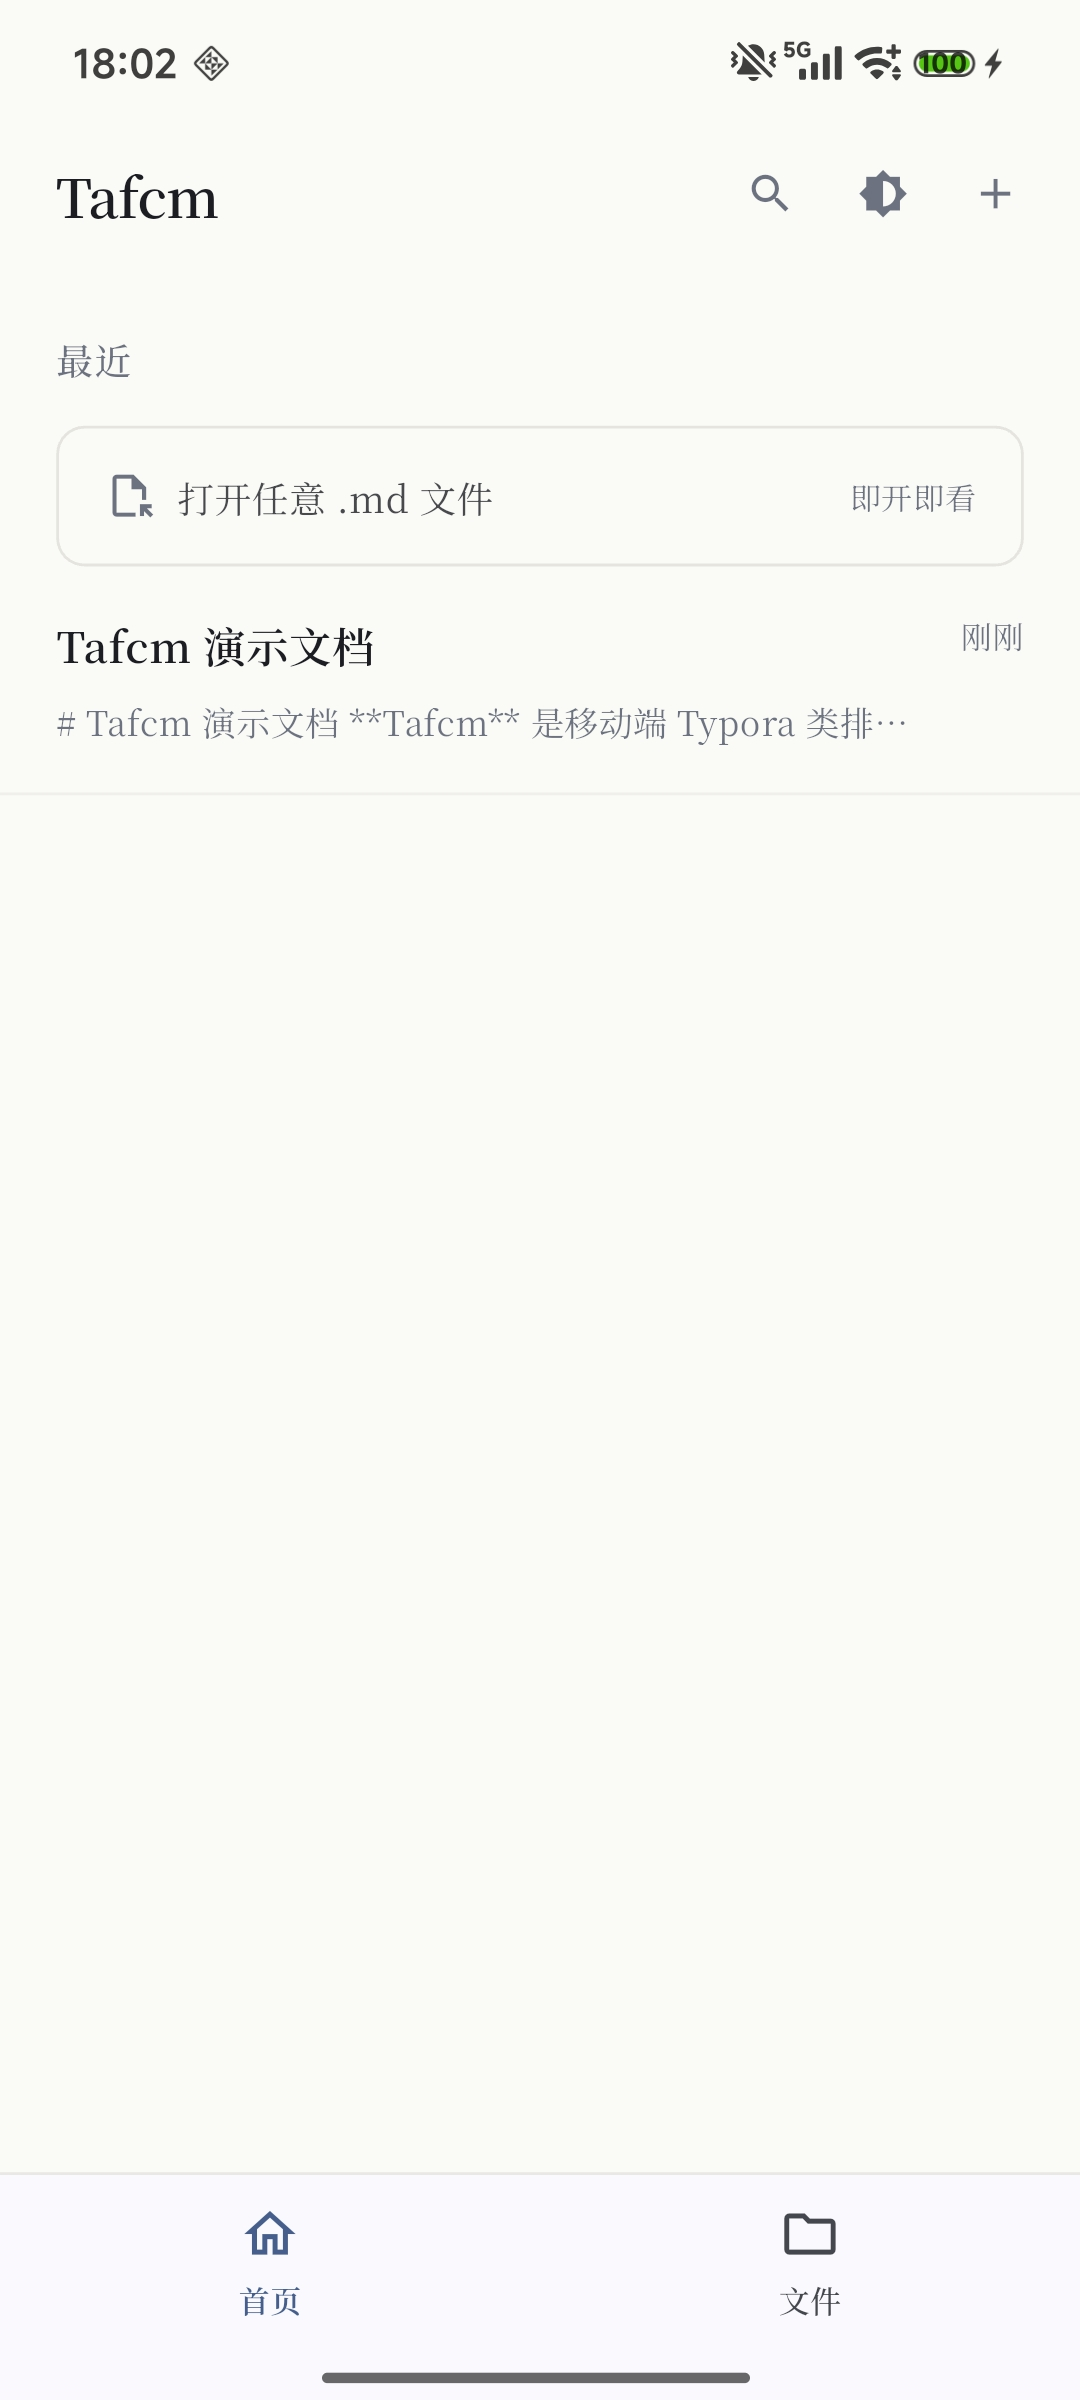
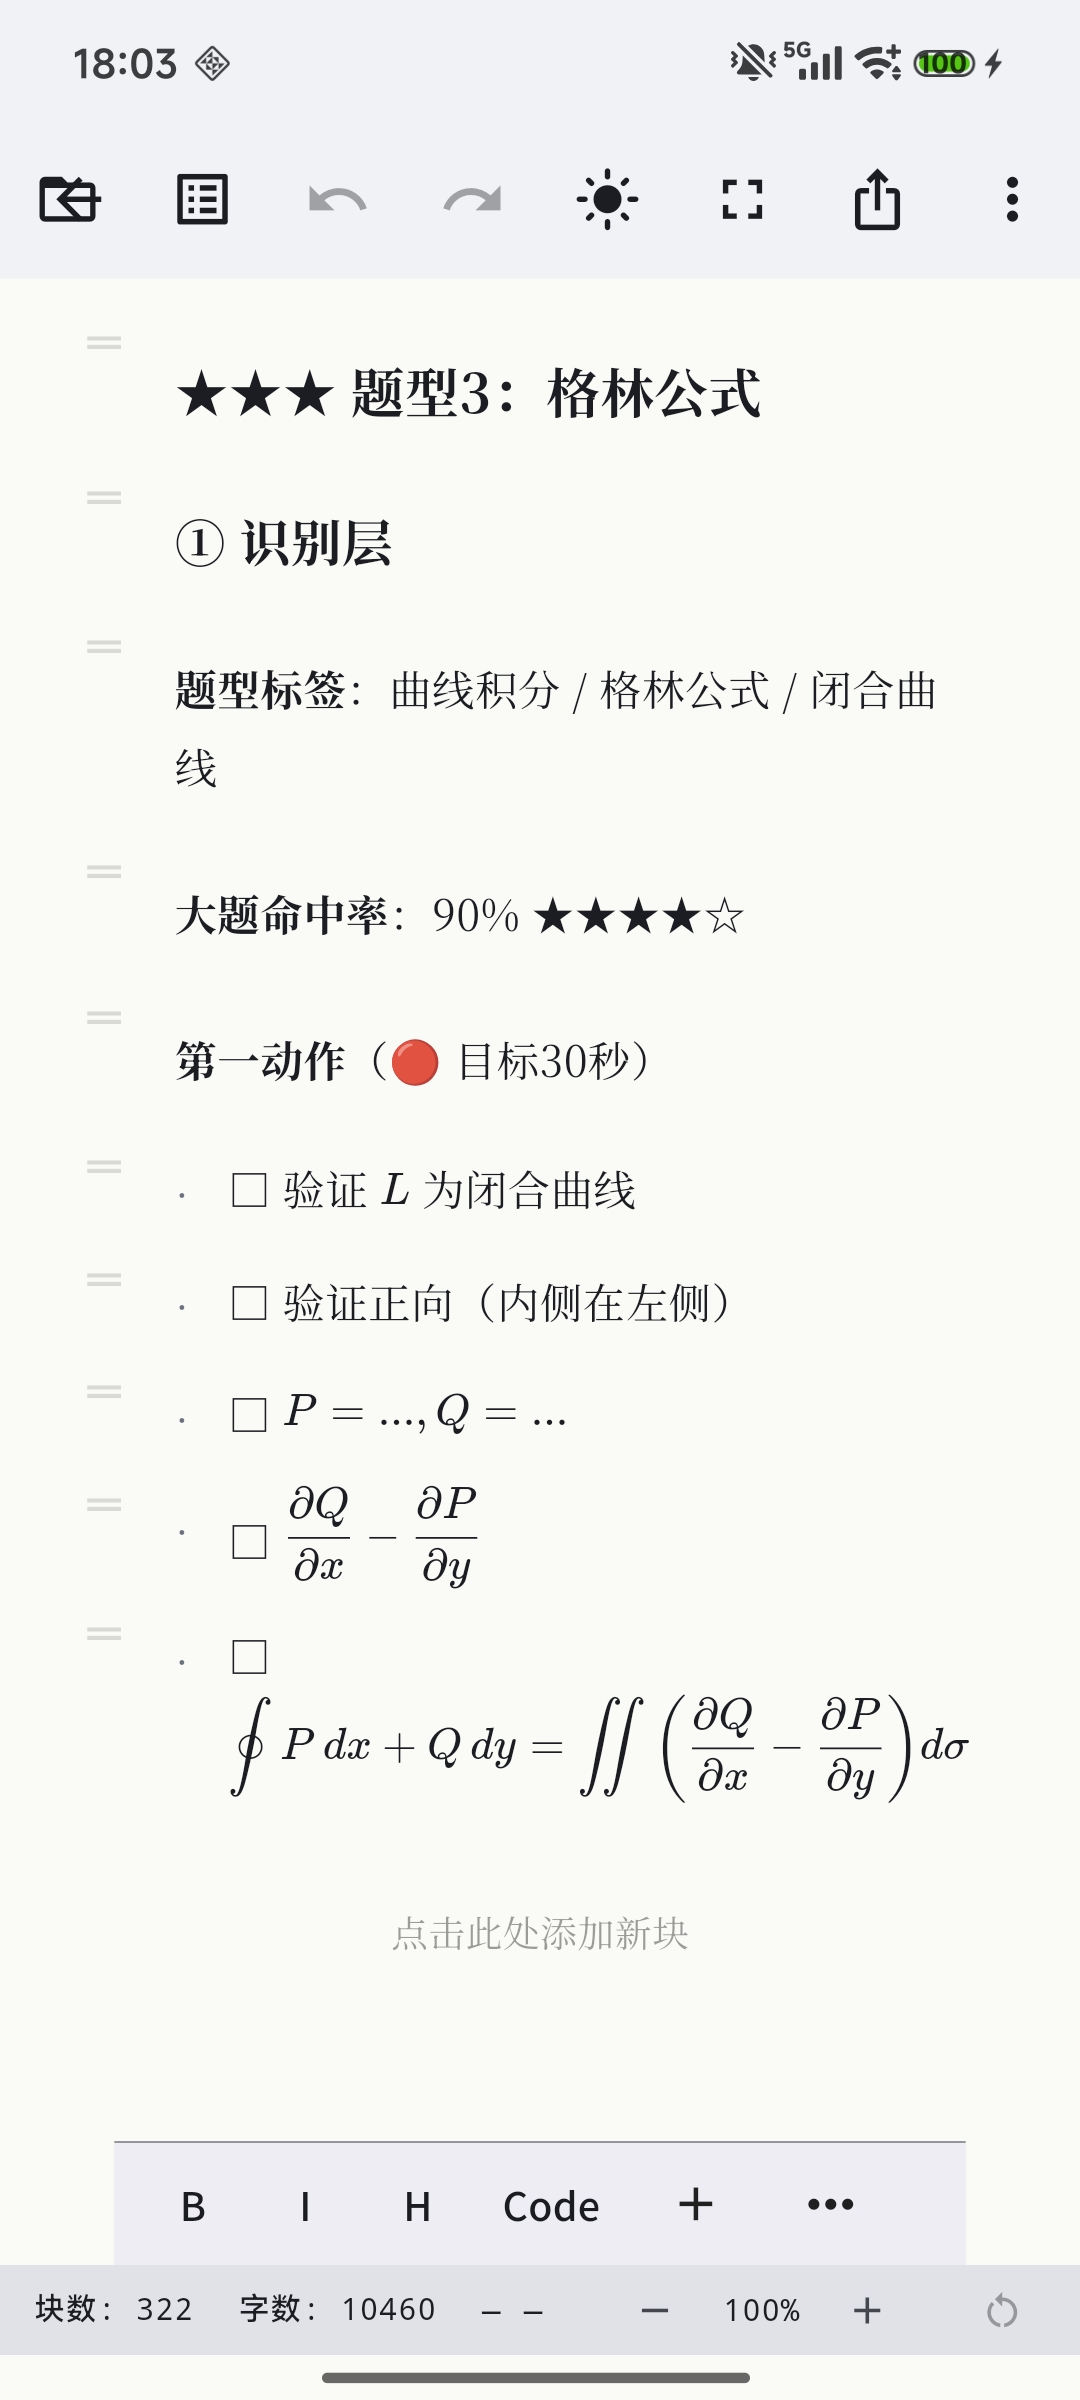
docs(readme): 补充 ADI 诊断接口与 ffx-cli 工具链特色 + 致谢（含 cli_anything） (#219)
* docs(readme): 补充 ADI 诊断接口与 ffx-cli 工具链特色 + 致谢 section

README 运营完善（反馈：未体现 ADI 与 CLI 特色、无致谢）：

1. 新增「🤖 Agent 诊断接口（ADI）」：发现 → 复现 → 定位 → 修复 → 验证
   闭环（ADR-0024），含 4 环节命令表（latest-error / trace / replay / validate）
   + "复用而非重采"原则 + adi.dart CLI 入口
2. 新增「🛠 CLI 工具链（ffx-cli）」：project / analyze / adi / contract 四命令域
   + 170+ pytest 守护 + --json 机器可消费输出
3. 新增「🙏 致谢」：开源生态（Flutter/Riverpod/dart_pdf 等）+ 设计启发
   （Typora / formulafix-redesign.design）+ 真机验证支持

Task scope: README 运营完善（ADI/CLI/致谢）

* docs(readme): 致谢补充 cli_anything 工具链（ffx-cli 命名空间包）

反馈补充：致谢 section 显式点名 cli_anything（ffx-cli 的 PEP 420
namespace package，包名 cli-anything-ffx，诊断 / ADI 封装 / Markdown 分析）。

Task scope: README 运营完善（cli-anything 致谢）

* docs(readme): 交换演示截图内容（01-home ↔ 02-document 与文件名对齐）

用户反馈：两张演示截图内容与文件名搞反（01-home.jpeg 内实为文档内部、
02-document.jpeg 内实为首页）。交换两文件内容，使文件名/README alt 与
内容一致（01-home = 首页，02-document = 文档内部）。

Task scope: README 演示截图修正

diff --git a/README.md b/README.md
@@ -37,6 +37,34 @@ Tafcm 不是"带预览的 Markdown 编辑器"，而是 **移动端 Typora 类产
 详细能力状态见 [docs/product/CAPABILITY-STATUS.md](docs/product/CAPABILITY-STATUS.md)（人类视图）
 与 [contracts/*.json](contracts/)（机器视图）。
 
+## 🤖 Agent 诊断接口（ADI）
+
+Tafcm 为 AI Agent 提供完整诊断闭环——让 Agent 从 Observation 出发，自主完成 **发现 → 复现 → 定位 → 修复 → 验证**（ADR-0024）：
+
+| 环节 | 能力 | 命令 |
+|------|------|------|
+| 发现 | 渲染 / 导出异常自动采集（Observability，Phase 3.7） | `adi latest-error --json` |
+| 因果追踪 | 追溯诊断链（trace），不凭空假设 | `adi trace show <id>` |
+| 复现 | 重放会话确认可复现（不能复现的 bug 不修） | `adi replay <id>` |
+| 验证 | 修复后验证闭环 | `adi validate --after-fix` |
+
+> **复用而非重采**：ADI 消费 Phase 3.7 已建成的采集能力，不重复采集证据（ADR-0024）。
+> CLI 入口：`dart run tools/adi/adi.dart <command>`，详见 [docs/design/adi-design-v1.md](docs/design/adi-design-v1.md)。
+
+## 🛠 CLI 工具链（ffx-cli）
+
+Python（Click）命令工具链，文档项目全生命周期**诊断 / 验证 / 分析**：
+
+| 域 | 命令 | 用途 |
+|----|------|------|
+| project | `ffx project create / info / export / diff / status` | 文档项目生命周期管理 |
+| analyze | `ffx analyze file / adr / structure` | 文件 / ADR / 目录结构分析 |
+| adi | `ffx adi latest-error / trace / replay / validate` | Agent 诊断（ADI 的 CLI 封装） |
+| contract | `ffx contract-sync` | 能力契约同步（contracts/*.json） |
+
+> 170+ pytest 用例守护；`--json` 输出可机器消费（CI / Agent 编排）。
+> 详见 [tools/ffx-cli/](tools/ffx-cli/)。
+
 ## 📱 演示
 
 > 真机实拍（v0.1.1，Android 1080×2400）——移动端所见即所得排版：公式 / 表格 / 代码 / 图表 WYSIWYG 编辑。
@@ -141,6 +169,13 @@ cd tools/ffx-cli && python -m pytest cli_anything/ffx/tests/
 | 证据资产（截图 + 判定，可追溯） | [docs/evidence/](docs/evidence/) |
 | 视觉基线（golden） | `flutter_app/test/golden/` |
 | 运行时产物（不入库） | `.adi/` |
+
+## 🙏 致谢
+
+- **开源生态**：Flutter / Dart、Riverpod、dart_pdf、share_plus、flutter_inappwebview、flutter_math_fork、crypto、Click、pytest 等优秀开源项目
+- **工具链**：ffx-cli（`cli_anything` 命名空间包：诊断 / ADI 封装 / Markdown 分析，Click 实现，170+ pytest 用例）
+- **设计启发**：Typora（产品定位与交互范式参照）、[formulafix-redesign.design](formulafix-redesign.design/)（UI 设计稿）
+- **验证支持**：真机测试设备与 E2E 验证（E6 公式渲染 / E8 视觉语义真机证据）
 
 ## License
 
